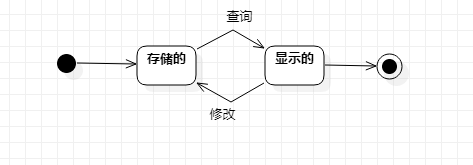
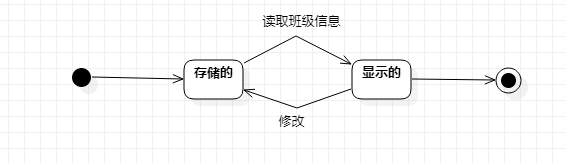
第7次试验修改

diff --git a/students/1714080902422/lab7.md b/students/1714080902422/lab7.md
@@ -1,4 +1,4 @@
-# 实验七：状态建模 
+# 实验七：状态建模 
 
  ### 一、实验目标
   掌握对象状态建模
@@ -15,7 +15,8 @@
       - 寻找一个最主要的对象   
       - 寻找这个对象所有的状态  
       - 画出状态之间的转变条件 
- 3. 编写实验报告
+ 3. 修改了实验2查询课表用例规约，实验3查询课表活动图
+ 4. 编写实验报告
 
   ### 四、实验结果
    ![课表状态图](./lab7-model1.png)  

diff --git a/students/1714080902422/lab2.md b/students/1714080902422/lab2.md
@@ -45,7 +45,7 @@
 ~| 2.系统显示课程查询页面  | 
 ~| 3.参与者输入年级专业班级，点击查询  |   
 ~| 4. 系统检查输入格式无误，查询班级信息存在 |   
-~| 5. 查询相应班级课表 |  
+~| 5. 匹配相应班级课表 |  
 ~| 6. 显示相应班级课表 |  
 扩展流程  | 4.1 系统检查输入格式有误  |*用例执行失败*    
 ~| 4.2  系统查询班级信息不存在 |  
